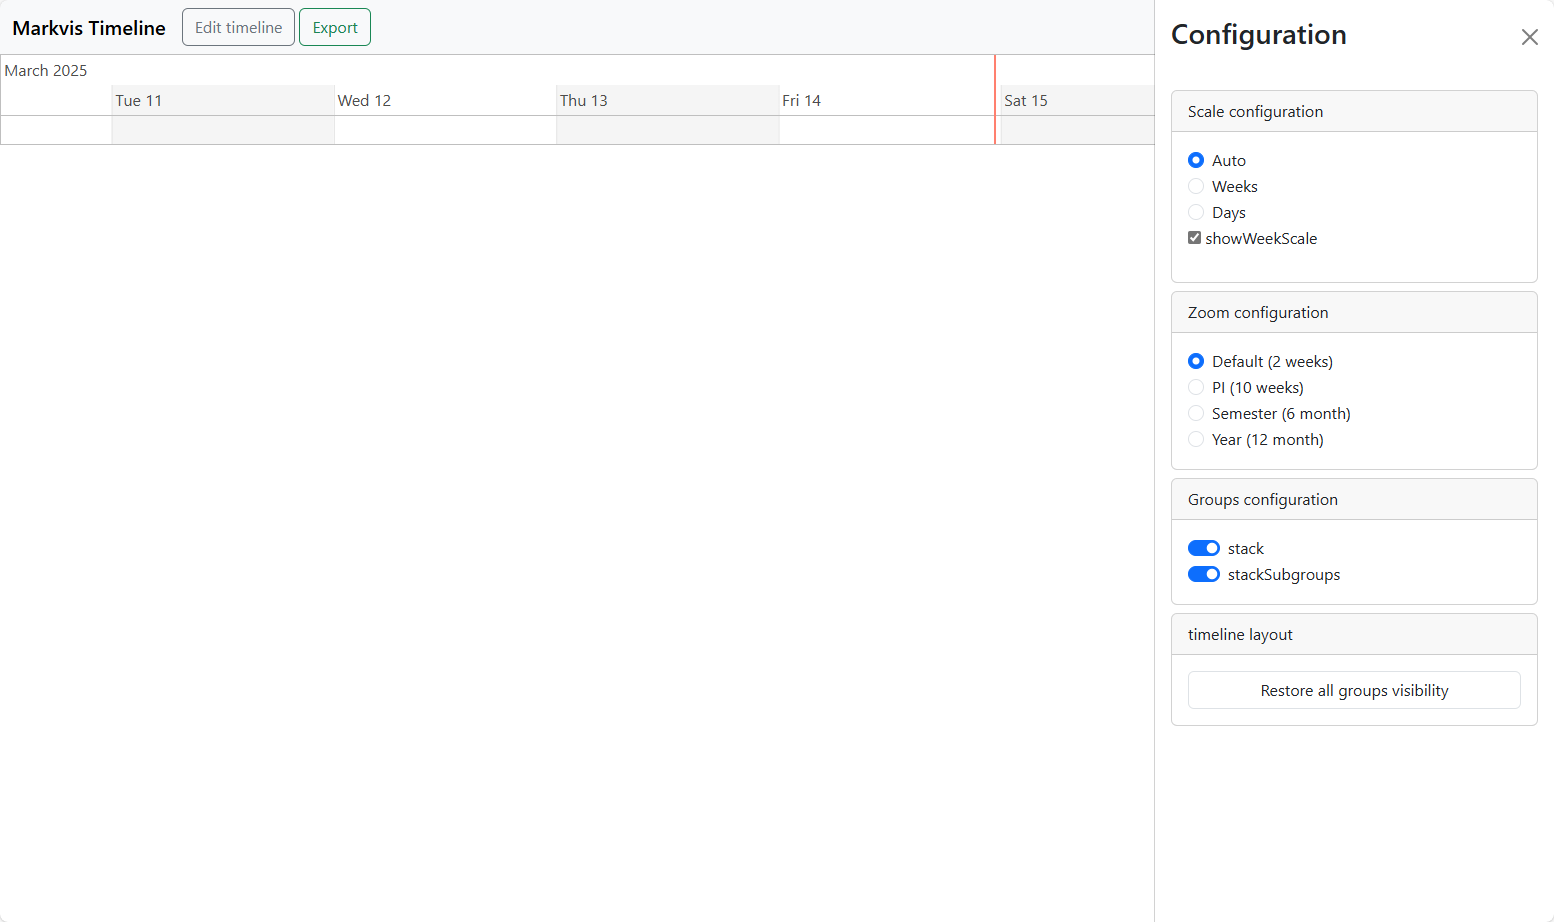
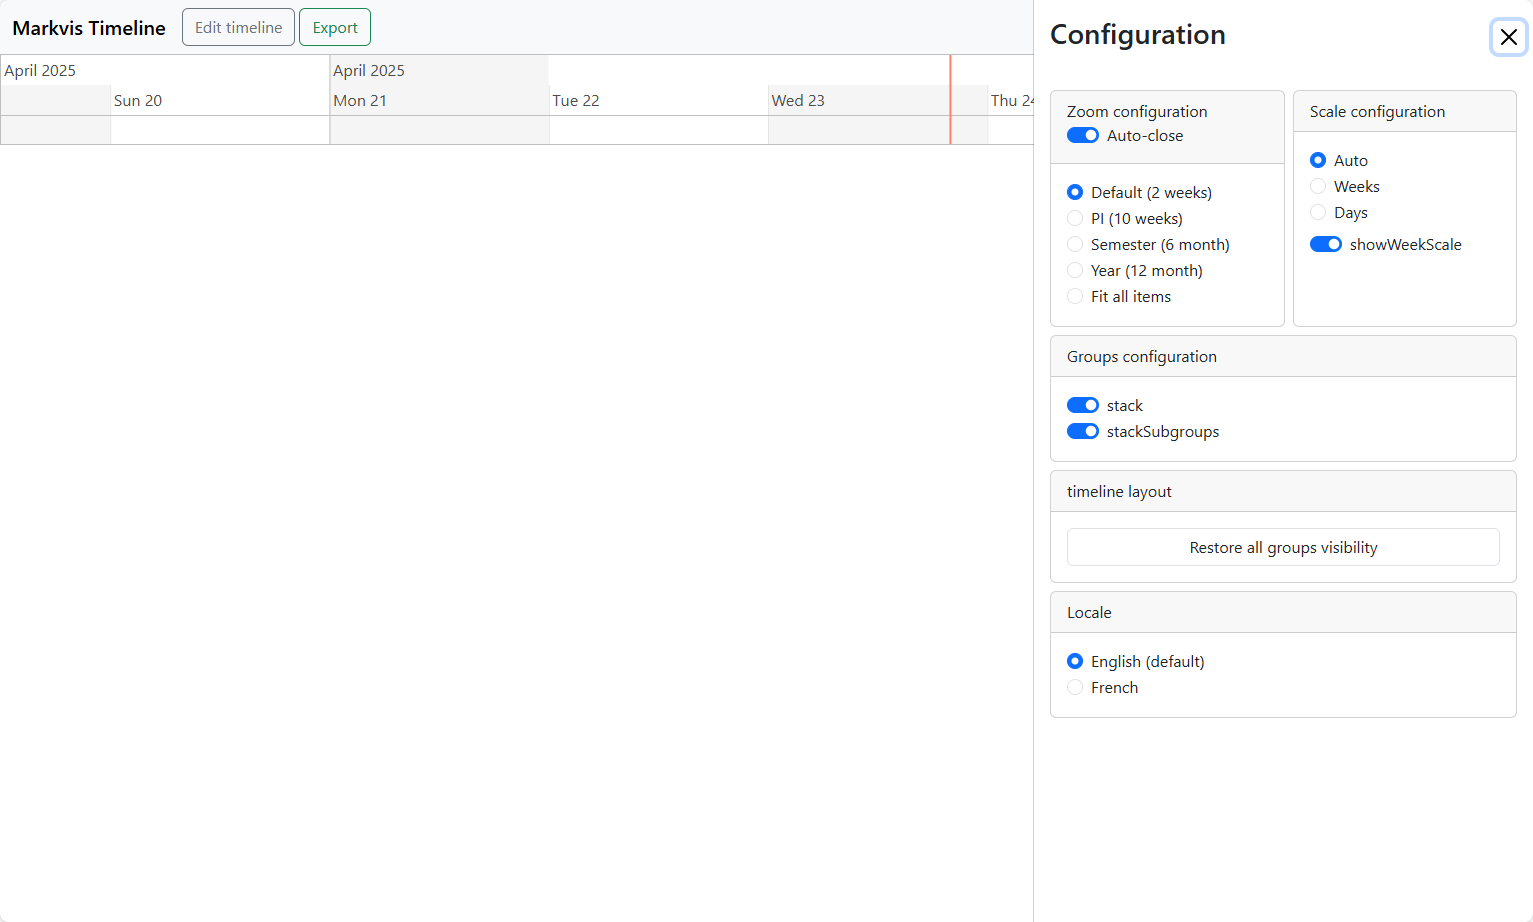
v0.9 improve configuration options
squash of the following:
- cosmetic : change checkboxes in switches in the drawer
- add option for choosing locale
- add another source of cdn
- change width of configuration drawer
- Change layout of the drawer
- Add a switch for auto closing the drawer for zoom options + logic
- add configuration options data in the Markvis class
- add function for default zoom
- backup config options in the markvis class
- add todos

diff --git a/markvis-timeline.html b/markvis-timeline.html
@@ -1,14 +1,19 @@
 <!DOCTYPE html>
 <html>
 <head>
-    <title>Markvis-timeline v0.8</title>
+    <title>Markvis-timeline v0.9</title>
     
     <meta charset="utf-8">
     <meta name="viewport" content="width=device-width, initial-scale=1">
 
     <script src="https://cdnjs.cloudflare.com/ajax/libs/moment.js/2.30.1/moment-with-locales.min.js" integrity="sha512-4F1cxYdMiAW98oomSLaygEwmCnIP38pb4Kx70yQYqRwLVCs3DbRumfBq82T08g/4LJ/smbFGFpmeFlQgoDccgg==" crossorigin="anonymous" referrerpolicy="no-referrer"></script>
 
-    <script type="text/javascript" src="https://unpkg.com/vis-timeline/standalone/umd/vis-timeline-graph2d.min.js"></script>
+    <!-- <script type="text/javascript" src="https://unpkg.com/vis-timeline/standalone/umd/vis-timeline-graph2d.min.js"></script> -->
+    <script src="https://cdn.jsdelivr.net/npm/vis-timeline/peer/umd/vis-timeline-graph2d.min.js"></script>
+    <link rel="stylesheet" href="https://cdn.jsdelivr.net/npm/vis-timeline/styles/vis-timeline-graph2d.min.css">
+    <script src="https://cdn.jsdelivr.net/npm/vis-data@7.1.9/peer/umd/vis-data.min.js"></script>
+
+
 
     <script src="https://cdn.jsdelivr.net/npm/luxon@3/build/global/luxon.min.js"></script>
 
@@ -164,80 +169,87 @@
         </div>
     </div>
 
-    <div class="offcanvas offcanvas-end" id="drawerConfig" data-bs-backdrop="false">
+    <div class="offcanvas offcanvas-end" id="drawerConfig" data-bs-backdrop="false" style="width: 500px;">
         <div class="offcanvas-header">
             <h3>Configuration</h3>
             <button type="button" class="btn-close" data-bs-dismiss="offcanvas" aria-label="Close"></button>
         </div>
         <div class="offcanvas-body">
-            <div class="card mb-2">
-                <div class="card-header">Scale configuration</div>
-                <div class="card-body">
-                    <!-- <h5 class="card-title">Special title treatment</h5> -->
-                    <div class="form-check">
-                        <label class="form-check-label">
-                            <input type="radio" name="scale" class="form-check-input" value="auto" checked />
-                            Auto
-                        </label>
+            <div class="d-flex gap-2 mb-2">
+                <div class="card flex-fill">
+                    <div class="card-header">Zoom configuration
+                        <div class="form-check form-switch mb-2">
+                            <input class="form-check-input" type="checkbox" id="config-autoclose" checked />
+                            <label class="form-check-label" for="config-autoclose">Auto-close</label>
+                        </div>
                     </div>
-                    
-                    <div class="form-check">
-                        <label class="form-check-label">
-                            <input type="radio" name="scale" class="form-check-input" value="week" />
-                            Weeks
-                        </label>
-                    </div>
-                    
-                    <div class="form-check">
-                        <label class="form-check-label">
-                            <input type="radio" name="scale" class="form-check-input" value="day" />
-                            Days
-                        </label>
-                    </div>
+                    <div class="card-body">
+                        <div class="form-check">
+                            <label class="form-check-label">
+                                <input type="radio" name="zoom" class="form-check-input" value="default" checked />
+                                Default (2 weeks)
+                            </label>
+                        </div>
+                        
+                        <div class="form-check">
+                            <label class="form-check-label">
+                                <input type="radio" name="zoom" class="form-check-input" value="pi" />
+                                PI (10 weeks)
+                            </label>
+                        </div>
 
-                    <p>
-                        <input type="checkbox" id="weekscale" name="weekscale" checked />
-                        <label for="weekscale">showWeekScale</label>
-                    </p>
+                        <div class="form-check">
+                            <label class="form-check-label">
+                                <input type="radio" name="zoom" class="form-check-input" value="semester" />
+                                Semester (6 month)
+                            </label>
+                        </div>
+
+                        <div class="form-check">
+                            <label class="form-check-label">
+                                <input type="radio" name="zoom" class="form-check-input" value="year" />
+                                Year (12 month)
+                            </label>
+                        </div>
+
+                        <div class="form-check">
+                            <label class="form-check-label">
+                                <input type="radio" name="zoom" class="form-check-input" value="fit" />
+                                Fit all items
+                            </label>
+                        </div>
+                    </div>
                 </div>
-            </div>
 
-            <div class="card mb-2">
-                <div class="card-header">Zoom configuration</div>
-                <div class="card-body">
-                    <div class="form-check">
-                        <label class="form-check-label">
-                            <input type="radio" name="zoom" class="form-check-input" value="default" checked />
-                            Default (2 weeks)
-                        </label>
-                    </div>
-                    
-                    <div class="form-check">
-                        <label class="form-check-label">
-                            <input type="radio" name="zoom" class="form-check-input" value="pi" />
-                            PI (10 weeks)
-                        </label>
-                    </div>
-
-                    <div class="form-check">
-                        <label class="form-check-label">
-                            <input type="radio" name="zoom" class="form-check-input" value="semester" />
-                            Semester (6 month)
-                        </label>
-                    </div>
-
-                    <div class="form-check">
-                        <label class="form-check-label">
-                            <input type="radio" name="zoom" class="form-check-input" value="year" />
-                            Year (12 month)
-                        </label>
-                    </div>
-
-                    <div class="form-check">
-                        <label class="form-check-label">
-                            <input type="radio" name="zoom" class="form-check-input" value="fit" />
-                            Fit all items
-                        </label>
+                <div class="card flex-fill">
+                    <div class="card-header">Scale configuration</div>
+                    <div class="card-body">
+                        <!-- <h5 class="card-title">Special title treatment</h5> -->
+                        <div class="form-check">
+                            <label class="form-check-label">
+                                <input type="radio" name="scale" class="form-check-input" value="auto" checked />
+                                Auto
+                            </label>
+                        </div>
+                        
+                        <div class="form-check">
+                            <label class="form-check-label">
+                                <input type="radio" name="scale" class="form-check-input" value="week" />
+                                Weeks
+                            </label>
+                        </div>
+                        
+                        <div class="form-check">
+                            <label class="form-check-label">
+                                <input type="radio" name="scale" class="form-check-input" value="day" />
+                                Days
+                            </label>
+                        </div>
+                        
+                        <div class="form-check form-switch mt-2">
+                            <input class="form-check-input" type="checkbox" id="weekscale" checked />
+                            <label class="form-check-label" for="weekscale">showWeekScale</label>
+                        </div>
                     </div>
                 </div>
             </div>
@@ -262,6 +274,25 @@
                 <div class="card-body">
                     <!-- <button id='btn_export'>Test export</button> -->
                     <button class="form-control" id='btn_restore'>Restore all groups visibility</button>
+                </div>
+            </div>
+
+            <div class="card mb-2">
+                <div class="card-header">Locale</div>
+                <div class="card-body">
+                    <div class="form-check">
+                        <label class="form-check-label">
+                            <input type="radio" name="locale" class="form-check-input" value="en" checked />
+                            English (default)
+                        </label>
+                    </div>
+                    
+                    <div class="form-check">
+                        <label class="form-check-label">
+                            <input type="radio" name="locale" class="form-check-input" value="fr" />
+                            French
+                        </label>
+                    </div>
                 </div>
             </div>
 
@@ -402,6 +433,15 @@
                     },
                 }
 
+                this.configuration = {
+                    zoom: 'default',
+                    scale: 'auto',
+                    stack: true,
+                    stackSubgroups: true,
+                    showWeekScale: true,
+                    autoclose: true,
+                }
+
                 this.breadcrumb = []
 
                 this.currentGroupId = null
@@ -503,30 +543,43 @@
                 
                 this.items.add(item)
             }
+
+            defaultZoom() {
+                $("input[value='default']").click()
+            }
         }
     </script>
 
     <script type="text/javascript">
         //TODO:
         //
-        // + Add configuration for locale
-        // + Add color helper
-        // + Add a syntax for comments on an item (tootip content)
-        // + To have a custom function (format in the options) to manage display of timeline scale
+        // + to check if we can dissociate the locale and the week starting day 
         // + Add a button to fold/unfold all groups
-        // + Tooptip for group button (only display this line) ?
-        // + Add a button to put the line on top ?
+        
+        // Content drawer //
+        // + maybe change the textarea to a contenteditable div like codemirror/ace/monaco
+        // + Add color helper
+        // + add possibility to write a HTML color name
+        // + add new icon provider : material design icons + syntax to chose the provider ie. {provider-1-letter/icon}
+        // + group closed by default (syntax ?)
+        // + Add a syntax for comments on an item (tootip content)
         // + add a syntax to avoid a line to be re-ordered ?
         // + Add relative date (+1d, +1w, +1m, +1y)
-        // + Add a color to the group line to use that color for all items in the group
+        
+        // + Tooptip for group button (only display this line) ?
+        // + Add a button to put the line on top ?
+        // + To have a custom function (format in the options) to manage display of timeline scale
+        
         // + Add a subgroup with none stacked items + syntax
         // + "Gantt" mode for a group (all lines are stacked in the defined order) + syntax
+        
+        // Plugins //
         // + Add a plugin to link with github gist
         // + Add a plugin to link with google drive ??? // proposed by @copilot
-        // + maybe change the textarea to a contenteditable div like codemirror/ace/monaco
+        
+        
         // + Internal refactoring for the Markvis class
         //   ++ integrate the timeline in the class
-        //   ++ use the dataset defined in the class anywhere in the code
         //   ++ integrate the helpers functions in the class
 
         const $ = (sel) => document.querySelector(sel) // jQuery emulation
@@ -674,7 +727,7 @@
             timeline.setGroups(mks.groups)
             timeline.setItems(mks.items)
 
-            timeline.fit()
+            mks.defaultZoom()
 
             // Update for icon here
             // DOM manipulation only available after timeline.setItems()
@@ -890,6 +943,10 @@
             };
         }
 
+        $("#config-autoclose").onchange = function() {
+            mks.configuration.autoclose = this.checked
+        }
+
         for(el of document.querySelectorAll("input[name='zoom']")) {
             el.onclick = function() {
                 if (this.value == "fit") {
@@ -901,14 +958,19 @@
                         luxon.DateTime.now().plus(map[this.value]).toISO()
                     );
                 }
+                if (mks.configuration.autoclose) {
+                    bootstrap.Offcanvas.getInstance($('#drawerConfig'))?.hide()
+                }
+
             };
         }
 
-        document.getElementById('weekscale').onchange = function() {
+        $('#weekscale').onchange = function() {
+            mks.configuration.showWeekScale = this.checked
             timeline.setOptions({showWeekScale: this.checked});
         }
 
-        document.getElementById('btn_restore').onclick = function() {
+        $('#btn_restore').onclick = function() {
             let groups = mks.groups
             
             groups.forEach(function(group) {
@@ -923,11 +985,19 @@
             }
         }
 
+        for(el of document.querySelectorAll("input[name='locale']")) {
+            el.onchange = function() {
+                timeline.setOptions({ locale: this.value });
+            };
+        }
+
         $("#stack").onchange = function () {
+            mks.configuration.stack = this.checked
             timeline.setOptions({stack: this.checked})
         }
 
         $("#stackSubgroups").onchange = function () {
+            mks.configuration.stackSubgroups = this.checked
             timeline.setOptions({stackSubgroups: this.checked})
         }
 

diff --git a/README.md b/README.md
@@ -17,6 +17,9 @@ You can adjust the size of the drawer by holding the <kbd>CTRL</kbd> key and inc
 The button <kbd>Configuration</kbd> opens another drawer, on the right side, to configure the timeline display.
 ![Main interface configuration](/doc/main_interface_config.png)
 
+In this drawer, you can configure the zoom, the scale, the groups and the locales.
+The auto-close button allows to close the drawer automatically as soon as an option is selected.
+
 ### Plugins drawer
 The button <kbd>Plugins</kbd> opens a bottom drawer and contain a tab list where each tab is a plugin.
 See the plugins section to have more details on each plugin.
@@ -157,8 +160,9 @@ v0.1 first usable version\
 v0.2 add support for icons and colors\
 v0.3 add support for subgroups\
 v0.4 add json plugin\
-v0.5 add bootstrap icons provider
-v0.6 fixes and enhancements
-v0.7 add possibility to resize the content drawer
-v0.8 add possibility to set a color for an entire group
+v0.5 add bootstrap icons provider\
+v0.6 fixes and enhancements\
+v0.7 add possibility to resize the content drawer\
+v0.8 add possibility to set a color for an entire group\
+v0.9 enhance configuration drawer
 </details>
